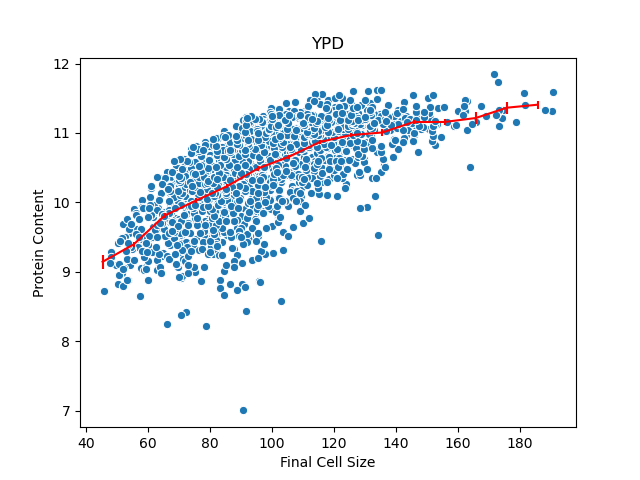
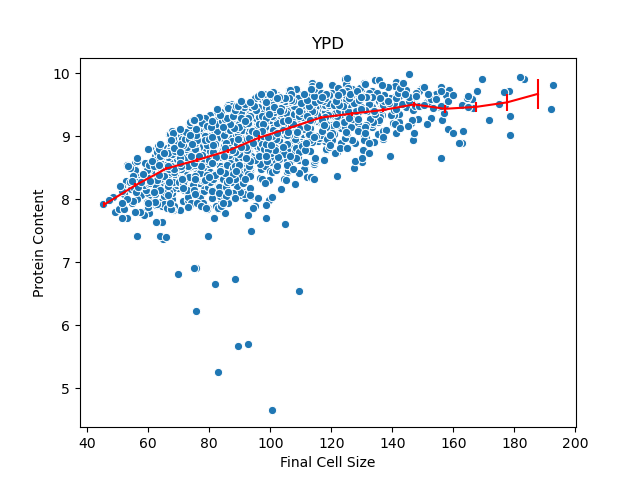
Updated Changes after Meeting

diff --git a/src/HTB.py b/src/HTB.py
@@ -8,7 +8,7 @@ import Utils
 import seaborn as sns
 import matplotlib.pyplot as plt
 
-medium = 'SCGE'
+medium = 'YPD'
 
 time_of_protein_production = {'YPD' : 24, 'SCD' : 28, 'SCGE' : 35.5}
 
@@ -110,9 +110,9 @@ while(np.all(size_at_start) == False): #Checks if all values are non-zero. That 
     i = current_time - 1
 
     bud_prob = bud_prob_beta_1*(cell_v[:, i] - bud_prob_M0_1)  
+    bud_prob = 1 - np.exp(-bud_prob)
     bud_prob[bud_prob < 0] = 0
     bud_prob[bud_prob > 1] = 1
-    bud_prob = 1 - np.exp(-bud_prob)
     
     bud_len = len(bud_prob)
     bud = np.zeros(bud_len)
@@ -125,7 +125,7 @@ while(np.all(size_at_start) == False): #Checks if all values are non-zero. That 
     for j in copy.copy(cell_list_G1):
 
         dv = growth_rate1(cell_v[j])       
-        cell_v[j]= cell_v[j][i] + dv
+        cell_v[j] = cell_v[j][i] + dv
         cell_volumes[j].append(cell_v[j][i])
         if(bud[j] == 1): #If Cell passes start
             size_at_start[j] = cell_v[j][i]
@@ -163,19 +163,19 @@ while(len(cell_list_G2) > 0):
     for k in copy.copy(cell_list_G2):
         dv2 = growth_rate2(cell_v[k][i - 1])
         if(cell_cycle[k][i - 1] == 0): #Cell is in G1(Post-start)
-            if(post_start_G1[k][i - 1] == 1): #In post-start G1.
-                if(protein_synthesis_counter[k] > 0):
-                    cell_protein[k][i] = cell_protein[k][i - 1] + (dv2*mrna_amount[medium]/cell_v[k][i])                  
-                    protein_synthesis_counter[k] -= 1
-                else:
-                    cell_protein[k][i] = cell_protein[k][i - 1]
-                if(post_start_counter[k][i] > 0):
-                    cell_v[k][i] = cell_v[k][i - 1] + dv2
-                    cell_cycle[k][i] = 0
-                    cell_bud[k][i] = 0
-                    post_start_G1[k][i + 1] = 1
-                    post_start_counter[k][i] = post_start_counter[k][i - 1] - 1
-                elif(post_start_counter[k][i - 1] == 0):
+            # if(post_start_G1[k][i - 1] == 1): #In post-start G1.
+            #     if(protein_synthesis_counter[k] > 0):
+            #         cell_protein[k][i] = cell_protein[k][i - 1] + (dv2*mrna_amount[medium]/cell_v[k][i - 1])                  
+            #         protein_synthesis_counter[k] -= 1
+            #     else:
+            #         cell_protein[k][i] = cell_protein[k][i - 1]
+            #     if(post_start_counter[k][i] > 0):
+            #         cell_v[k][i] = cell_v[k][i - 1] + dv2
+            #         cell_cycle[k][i] = 0
+            #         cell_bud[k][i] = 0
+            #         post_start_G1[k][i + 1] = 1
+            #         post_start_counter[k][i] = post_start_counter[k][i - 1] - 1
+                if(post_start_counter[k][i - 1] == 0):
                     
                     mother_bud_mass_defect[k] = 0
                     cell_v[k][i] = cell_v[k][i] + mother_bud_mass_defect[k]
@@ -187,9 +187,13 @@ while(len(cell_list_G2) > 0):
                     protein_extra_time = trackback_time[medium]
                     idx = max(0, len(cell_volumes[k]) - protein_extra_time)
                     for m in range(protein_extra_time):
-                        z = min(idx + m, len(cell_volumes[k]) - 1)
-                        dv2 = growth_rate2(cell_volumes[k][z])
-                        cell_protein[k][i] = cell_protein[k][i] + (dv2*mrna_amount[medium]/cell_volumes[k][z])                  
+                        z = idx + m
+                        if(z >= len(cell_volumes[k])):
+                            break
+                        dv = growth_rate1(cell_volumes[k][z - 1])
+                        cell_protein[k][i] = cell_protein[k][i] + (dv*mrna_amount[medium]/cell_volumes[k][z - 1])                  
+
+    # prev + (m*vol + c)*mrna/vol -> prev + m*mrna + c*mrna/vol
 
         elif(cell_cycle[k][i - 1] == 1): #Cell is in G2
             div_prob = G2_lambda_2d[0]*cell_bud[k][i - 1] + G2_lambda_2d[1]*start_size[k] + G2_lambda_2d[2]
@@ -200,7 +204,7 @@ while(len(cell_list_G2) > 0):
             G2_counter[k][i - 1] = random.choices([0., 1.], weights = [div_prob, 1 - div_prob])[0]
             
             if(protein_synthesis_counter[k] > 0):
-                cell_protein[k][i] = cell_protein[k][i - 1] + (dv2*mrna_amount[medium]/cell_v[k][i])
+                cell_protein[k][i] = cell_protein[k][i - 1] + (dv2*mrna_amount[medium]/cell_v[k][i - 1])
                 protein_synthesis_counter[k] -= 1
             else:
                 cell_protein[k][i] = cell_protein[k][i - 1]
